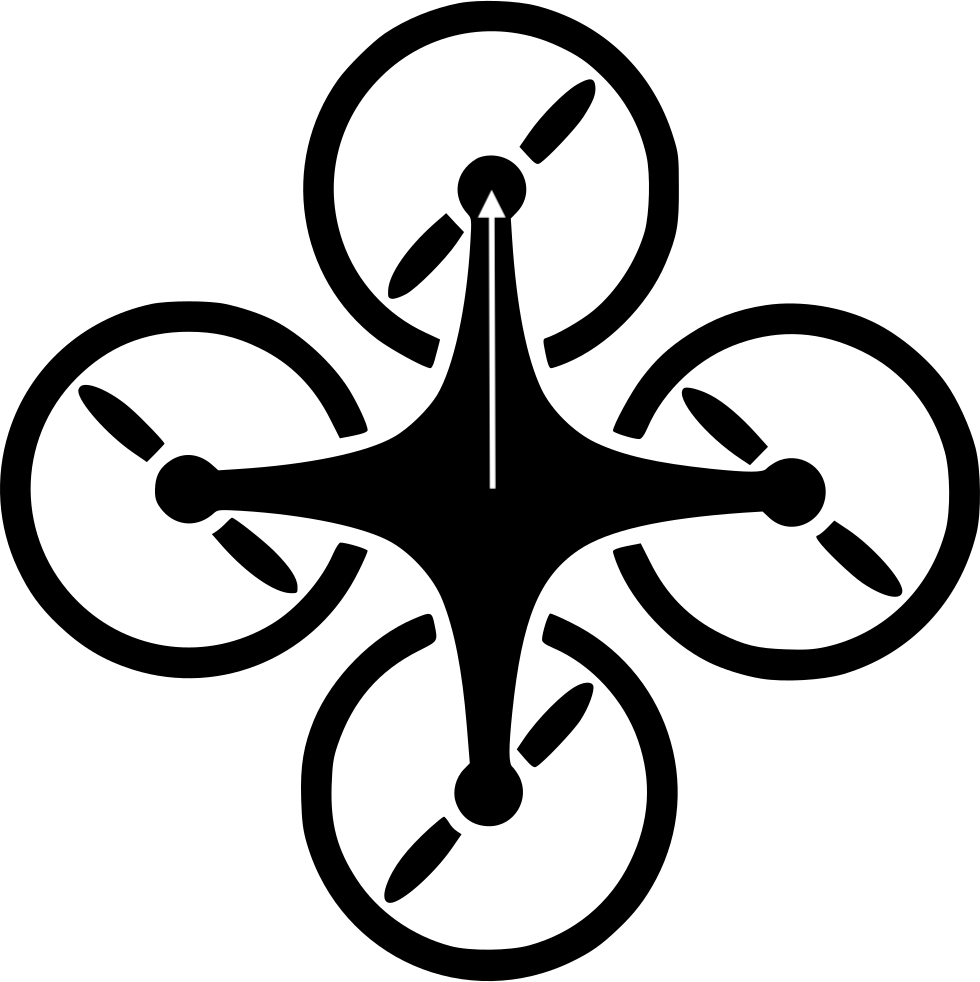
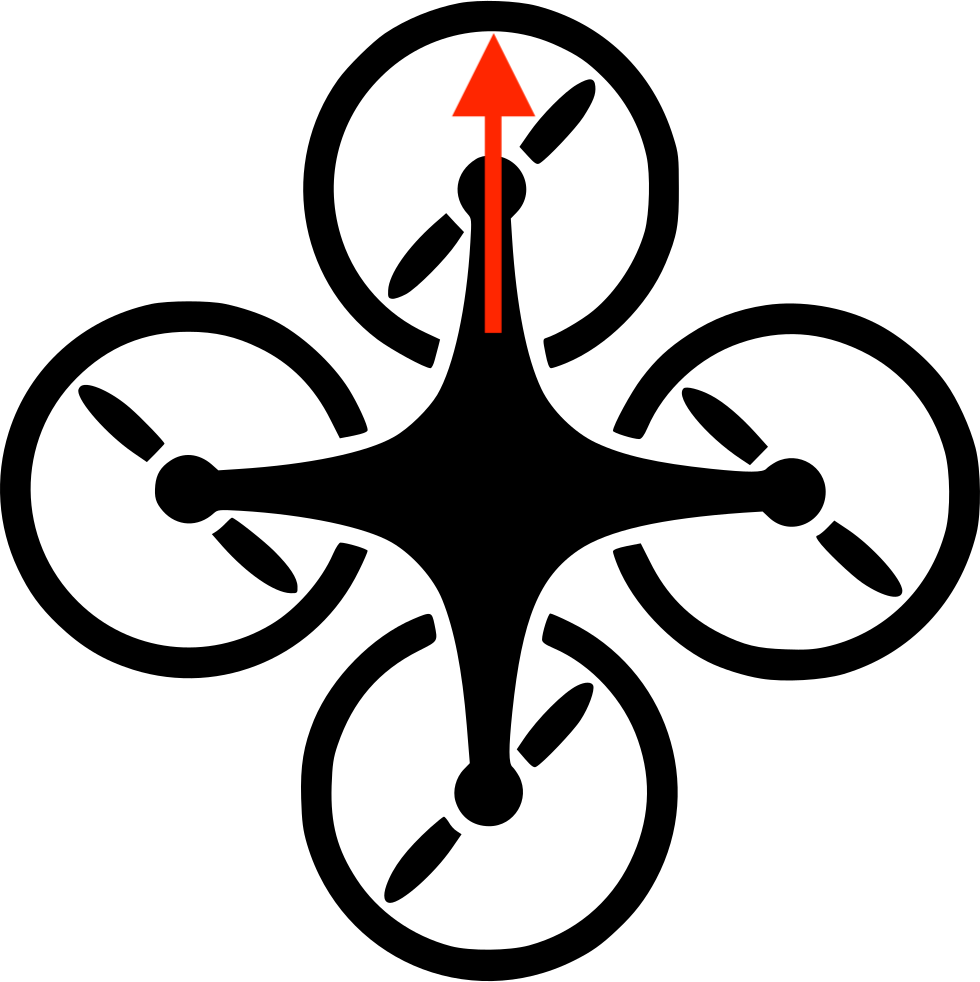
Nu med DRONE!

Changed region(s): [[0.4592, 0.0305, 0.551, 0.4888]]

diff --git a/src/sample/Drone.java b/src/sample/Drone.java
@@ -1,14 +1,15 @@
 package sample;
 
-import com.sun.prism.Image;
 import javafx.application.Application;
 
 import java.io.*;
 import javafx.scene.canvas.Canvas;
 import javafx.scene.canvas.GraphicsContext;
 import javafx.stage.Stage;
+import javafx.scene.image.ImageView;
+import javafx.scene.image.Image;
 
-import javax.swing.text.html.ImageView;
+
 
 public class Drone {
 
@@ -17,6 +18,7 @@ public class Drone {
     private double rotationCenterY;
     private int altitude;
     private boolean flying;
+    Image droneImage = new Image("sample/renameDrone.png");
 
 
 
@@ -120,9 +122,11 @@ public class Drone {
 
     public void drawDrone(Canvas canvasCanvas){
 
+
         GraphicsContext droneShape = canvasCanvas.getGraphicsContext2D();
         droneShape.clearRect(0, 0, canvasCanvas.getWidth(), canvasCanvas.getHeight());
-        droneShape.fillRect(this.getX(), this.getY(), this.getWidth(), this.getHeight()); //skal for fanden være et image
+        //droneShape.fillRect(this.getX(), this.getY(), this.getWidth(), this.getHeight()); //skal for fanden være et image
+        droneShape.drawImage(droneImage, this.x, this.y, this.width, this.height);
 
 
     }
@@ -142,7 +146,7 @@ public class Drone {
         droneShape.translate(this.rotationCenterX, this.rotationCenterY);
         droneShape.rotate(angle);
         droneShape.translate(-this.rotationCenterX, -this.rotationCenterY);
-        droneShape.fillRect(this.getX(), this.getY(), this.getWidth(), this.getHeight());
+        droneShape.drawImage(droneImage, this.x, this.y, this.width, this.height);
 
     }
 

diff --git a/src/sample/Controller.java b/src/sample/Controller.java
@@ -54,8 +54,8 @@ public class Controller{
     //Drone fields
     double halfWindowWidth = 200;
     double halfWindowHeight = 100;
-    double droneWidth = 20;
-    double droneHeight = 20;
+    double droneWidth = 40;
+    double droneHeight = 40;
     double droneAngle = 0;
     int droneAltitude = 0;
     //DroneObject
